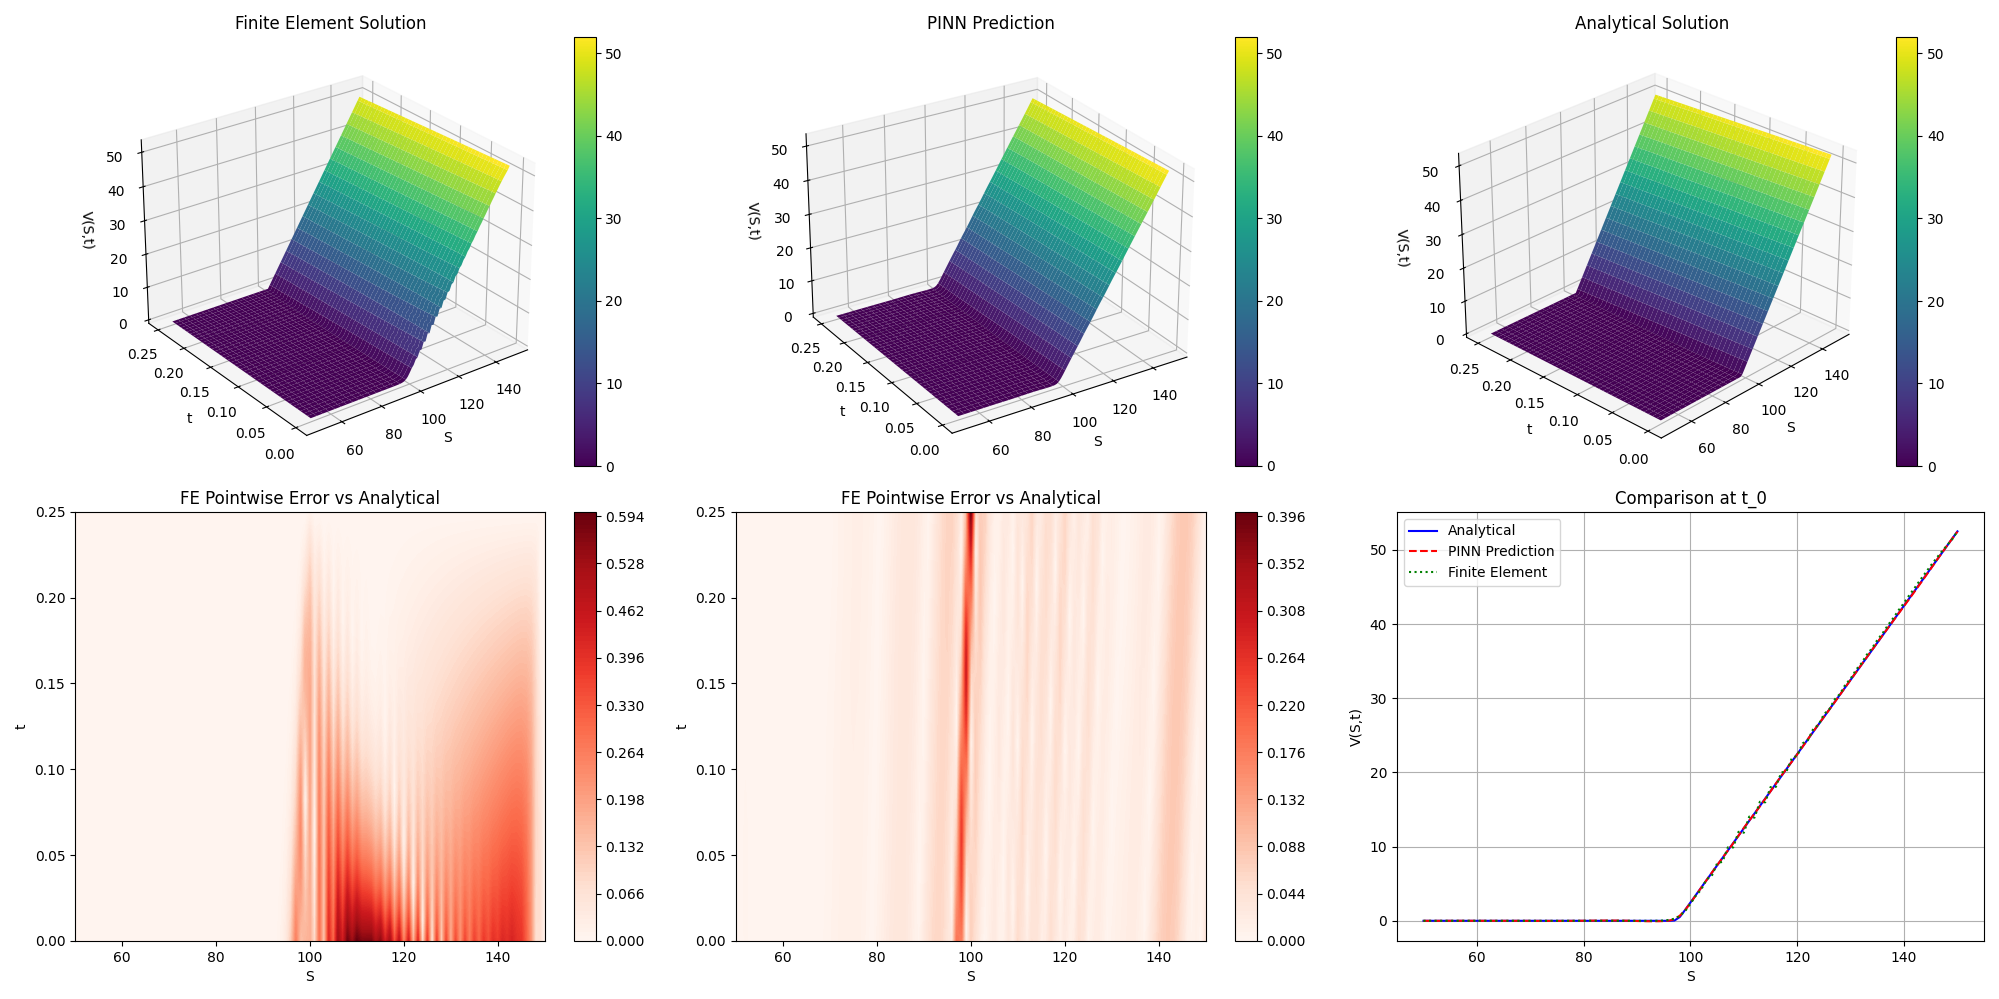
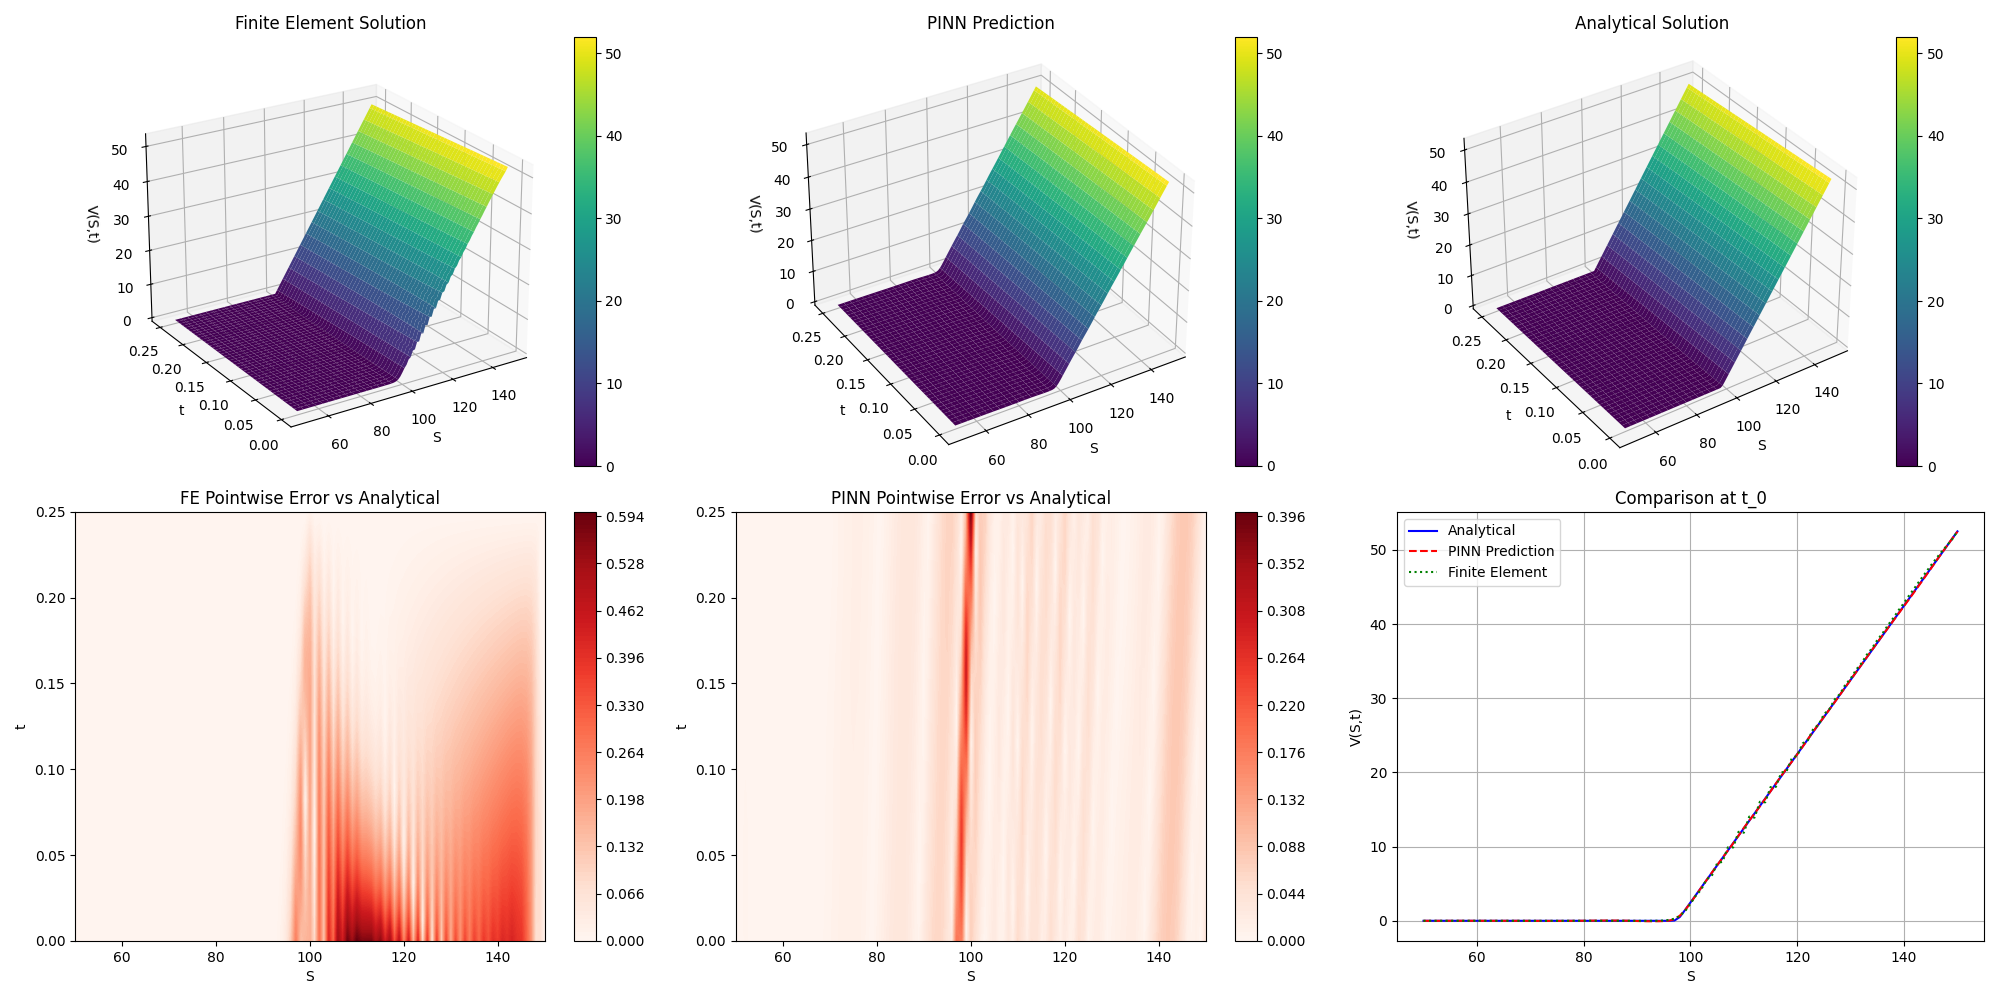
added comparison between numerical methods

diff --git a/Black-Scholes/comparison/compare-low-vol-EU-call.py b/Black-Scholes/comparison/compare-low-vol-EU-call.py
@@ -159,7 +159,7 @@ ax5 = fig.add_subplot(2, 3, 5)
 contour5 = ax5.contourf(X_mesh, Y_mesh, pinn_error,  levels=lvl, cmap="Reds")
 ax5.set_xlabel("S")
 ax5.set_ylabel("t")
-ax5.set_title("FE Pointwise Error vs Analytical")
+ax5.set_title("PINN Pointwise Error vs Analytical")
 fig.colorbar(contour5, ax=ax5)
 
 # Comparison at t_0
@@ -178,7 +178,7 @@ plt.tight_layout()
 plt.show()
 
 # Print error stats
-output = "stats.txt"
+output = "error_stats.txt"
 with open(output, "w") as f:
     print("============== Error Statistics ==============", file=f)
     print("\nFinite Element Solution:", file=f)
